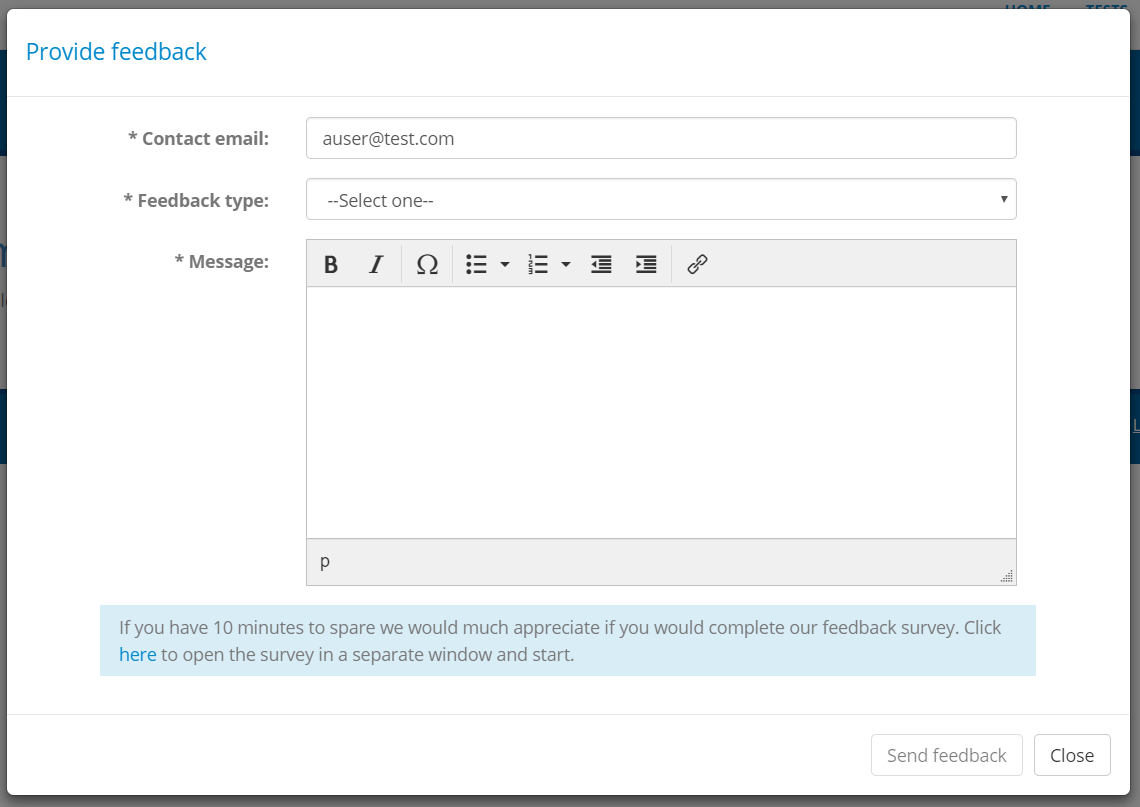
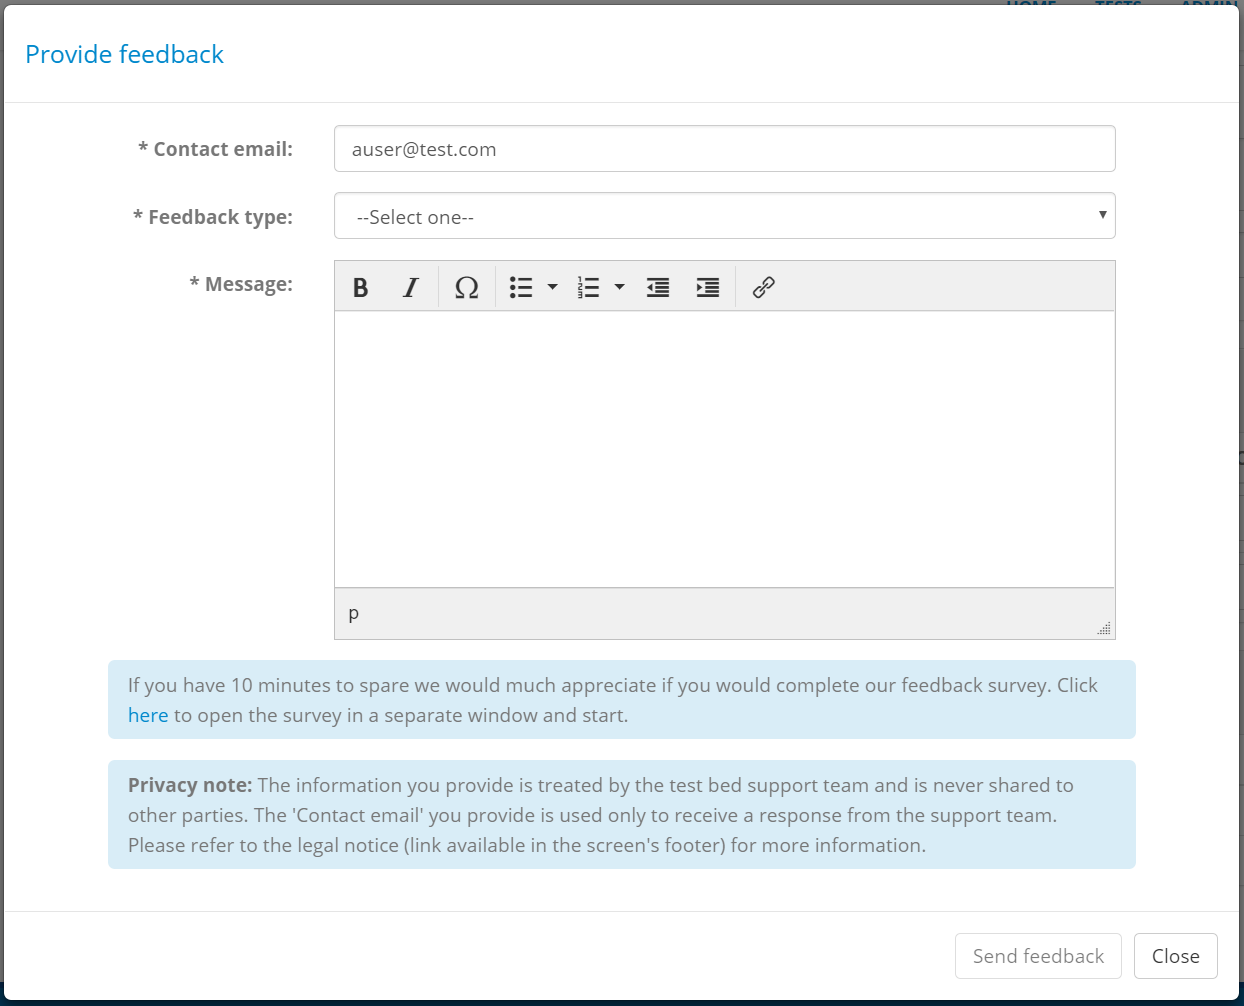
Updates for 1.4.0

diff --git a/source/conf.py b/source/conf.py
@@ -24,9 +24,9 @@ copyright = '2018, European Commission, DIGIT ISA'
 author = 'European Commission, DIGIT ISA'
 
 # The short X.Y version
-version = 'ITB version 1.3.0'
+version = 'ITB version 1.4.0'
 # The full version, including alpha/beta/rc tags
-release = 'ITB version 1.3.0'
+release = 'ITB version 1.4.0'
 
 html_show_sourcelink = False
 html_show_sphinx = False

diff --git a/source/changeHistory/index.rst b/source/changeHistory/index.rst
@@ -8,7 +8,36 @@ the following information is provided:
 * The **release summary**, describing briefly the main focus of the release and its key highlights.
 * The **release details**, listing the issues addressed in each release (bug fixes, new features and improvements).
 
-The latest test bed release is **1.3.0**.
+The latest test bed release is **1.4.0**.
+
+Release 1.4.0 - 03/07/2018
+--------------------------
+
+This is a minor release to correct bugs and also to improve the test bed's GDPR compliance.
+
+**Bug**
+
+* [ITB-219] - Cannot delete domain with domain parameters
+* [ITB-222] - Cannot delete community for which tests have been executed
+* [ITB-224] - Hide the special purpose Admin organisation from the test bed Default community
+* [ITB-231] - Legal Notice link not working without user login
+* [ITB-232] - Legal notice top-level headings appear grey
+* [ITB-235] - Icons may not appear when using IE 11
+* [ITB-242] - Active footer links are not visible
+
+**New Feature**
+
+* [ITB-49] - Link to online documentation
+* [ITB-221] - Link to role-specific documentation
+
+
+**Improvement**
+
+* [ITB-236] - Add cookie-related statement on login screen for GDPR compliance
+* [ITB-237] - Add consent message on community admin creation screen
+* [ITB-238] - Add consent message on test bed admin creation screen
+* [ITB-239] - Add consent message on organisation user creation screens
+* [ITB-240] - Add data use notification on contact form for GDPR compliance
 
 Release 1.3.0 - 25/05/2018
 --------------------------